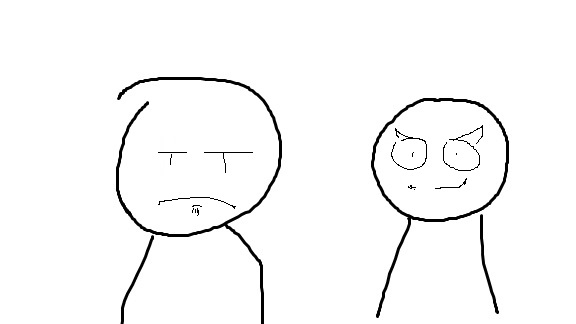
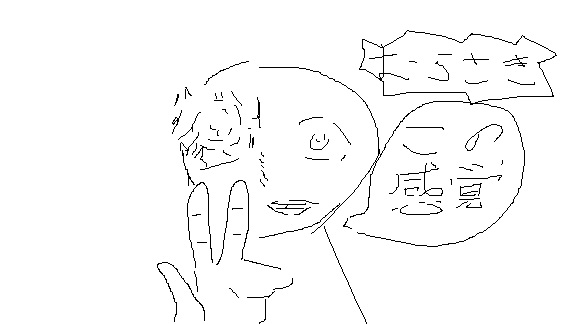
New Establishing Panels updates
+Added 2 new environment panels
+Testing new losange unrevealed panel system to make whited out panel forms fit the actual panel instead of always being a square
-Removed 3 placeholder images, kept panel3 for testing purposes.

diff --git a/test.html b/test.html
@@ -20,8 +20,8 @@
 
     .panel {
       position: absolute;
-      width: 300px;
-      height: 300px;
+      width: 700px;
+      height: 700px;
       background-size: contain;
       background-repeat: no-repeat;
       background-position: center;
@@ -41,19 +41,26 @@
       opacity: 0;
     }
 
+    /* Losange / diagonal panel shapes */
+.losange2 {
+  clip-path: polygon(0 20%, 100% 0, 100% 80%, 0 100%);
+}
+
+.losange1 {
+  clip-path: polygon(0 0, 100% 20%, 100% 100%, 0 80%);
+}
+
     /* individual positions */
-    .panel1 { top: 400px; left: 00px; transform: rotate(-10deg); }
-    .panel2 { top: -150px; left: 200px; transform: rotate(5deg); }
-    .panel3 { top: 400px; left: 400px; transform: rotate(10deg); }
-    .panel4 { top: 130px; left: 200px; border-radius: 50%; }
+    .panel.losange1 { top: -600px; left: 100px;  }
+    .panel.losange2 { top: -225px; left: 100px; }
+    .panel3 { top: 500px; left: 100px; }
   </style>
 </head>
 <body>
   <div class="panel-container">
-    <div class="panel panel1" style="background-image: url('panel1.jpg')"></div>
-    <div class="panel panel2" style="background-image: url('panel2.jpg')"></div>
+    <div class="panel losange1" style="background-image: url('Panel1.png')"></div>
+    <div class="panel losange2" style="background-image: url('Panel2.png')"></div>
     <div class="panel panel3" style="background-image: url('panel3.jpg')"></div>
-    <div class="panel panel4" style="background-image: url('panel4.jpg')"></div>
   </div>
 
   <script>
